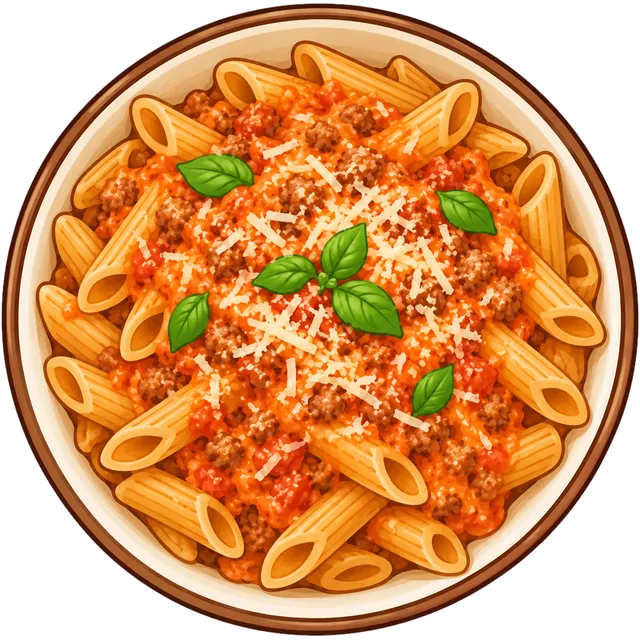
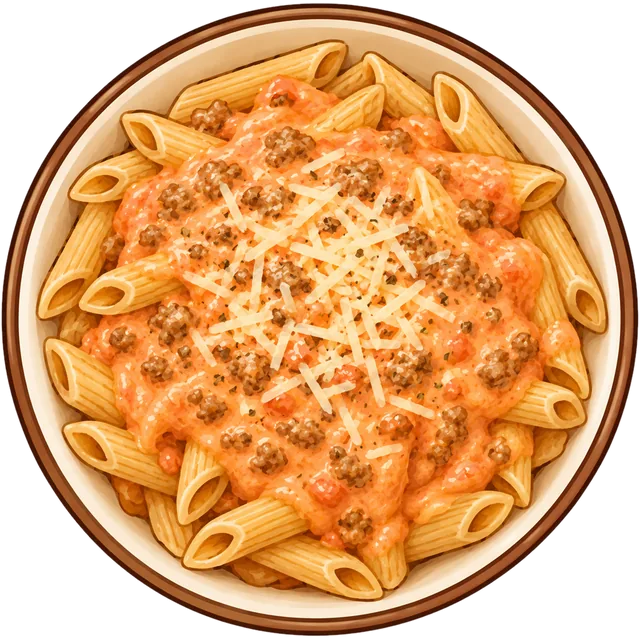
Cremet kødsovs og havregrynskugler tegnet om, så de passer til opskriften
Kødsovsen er cremet (flødeost) med oregano i stedet for friske basilikumblade, og kuglerne er
rullet i kokosmel, som ikke ligner riskorn (UI-review 2, 21-10). Ny INDHOLD i sw.js.

diff --git a/sw.js b/sw.js
@@ -7,7 +7,7 @@
    test/test-sw.js tjekker, at FILER er komplet, og fejler, når en fil er ændret. Fejlbeskeden viser den nye værdi;
    testen ændrer ikke sw.js, så den sættes her i hånden. */
 const PRAEFIKS = 'kog-';
-const INDHOLD = '20cc4ba09fbf4b15'; // sha256 (16 tegn) af FILER — sæt den værdi, test/test-sw.js viser i fejlbeskeden
+const INDHOLD = '64f64f71520f4205'; // sha256 (16 tegn) af FILER — sæt den værdi, test/test-sw.js viser i fejlbeskeden
 const VERSION = PRAEFIKS + INDHOLD;
 const LYD = '24ce7831ce32a950'; // sha256 (16 tegn) af lydfilerne (lyd/*/*.mp3) — sæt den værdi, test/test-sw.js viser
 const LYD_CACHE = PRAEFIKS + 'lyd-' + LYD;
